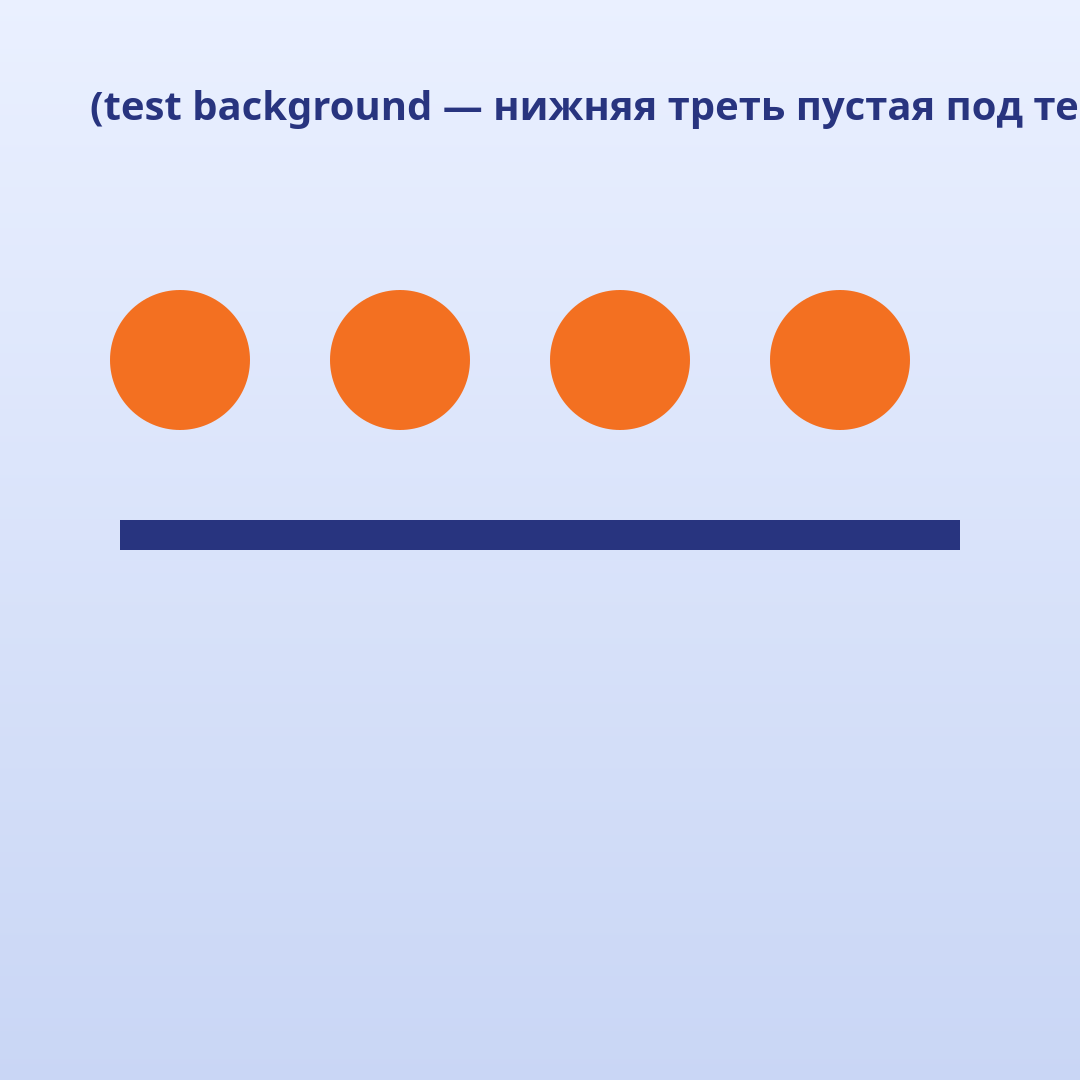
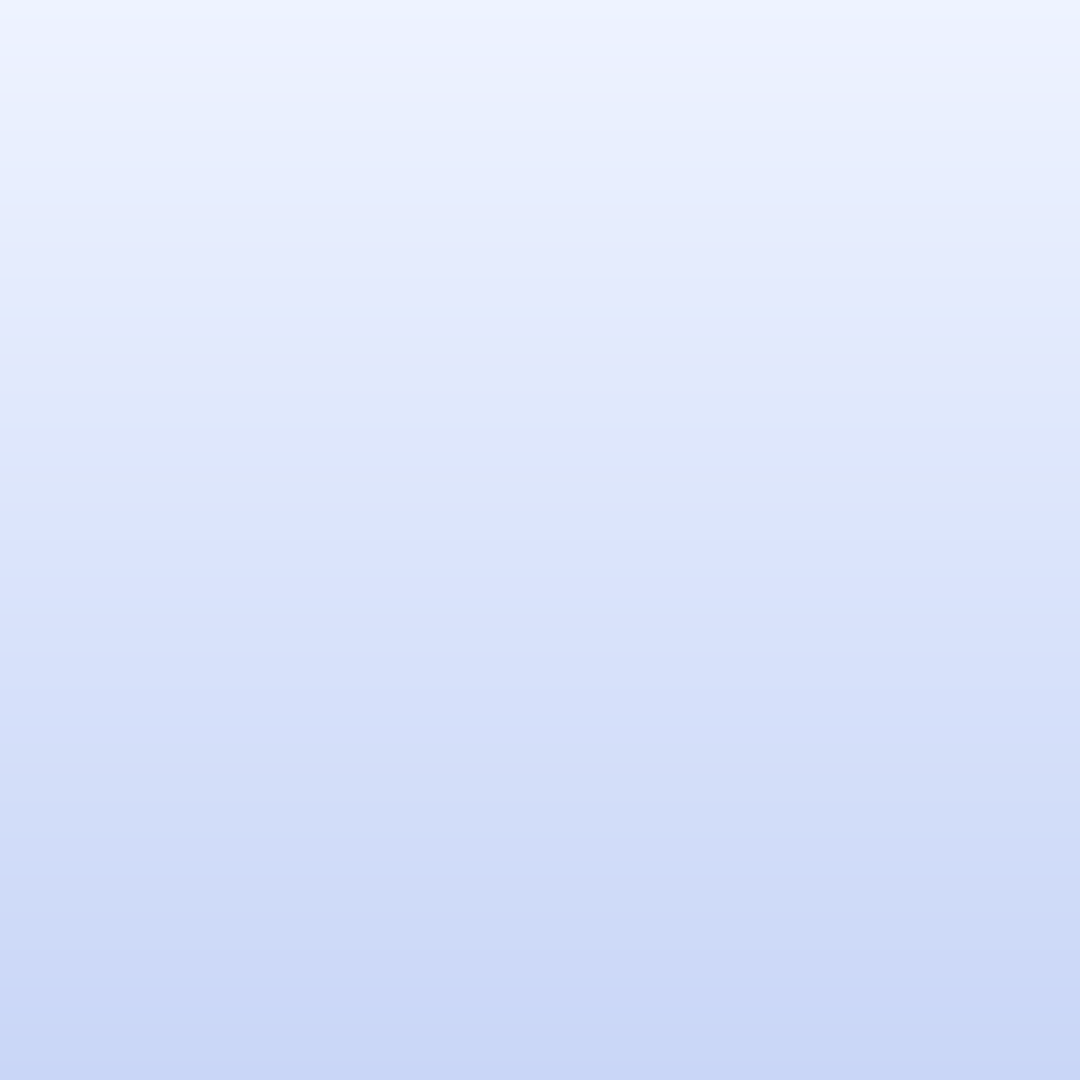
fix(content-bot): Track D image-engine gate fixes
- Logo auto-selects by brightness under it: bright corner → coloured logo.png,
  dark corner → logo-white.png (was always white → invisible on light bg).
- Headline prompt now asks for English text (for Instagram), RU/EN UI.
- Soft length guard: warn (still compose) when a headline exceeds ~50 chars.
- Clean dev fixtures: regenerated _test.png WITHOUT baked placeholder text
  (the on-image label was baked into the test PNG, not rendered by the engine)
  + added _test_dark.png to verify the dark/white-logo path. Both dev-only.

Verified on light/dark fixtures: no service label on the image, logo crisp on
both, English headline, auto-size handles short + long. Draft-only — no posting.

diff --git a/agents/content-bot/image.js b/agents/content-bot/image.js
@@ -101,18 +101,40 @@ function drawScrim(ctx, variant, textZone) {
   ctx.fillRect(0, textZone === 'band' ? 380 : 520, SIZE, SIZE);
 }
 
+// Average relative luminance (0..1) of a canvas region. Used to auto-pick the
+// logo variant so it never blends into the background.
+function regionLuminance(ctx, x, y, w, h) {
+  const sx = Math.max(0, Math.floor(x)), sy = Math.max(0, Math.floor(y));
+  const sw = Math.max(1, Math.min(SIZE - sx, Math.ceil(w)));
+  const sh = Math.max(1, Math.min(SIZE - sy, Math.ceil(h)));
+  const data = ctx.getImageData(sx, sy, sw, sh).data;
+  let sum = 0, n = 0;
+  for (let i = 0; i < data.length; i += 4) {
+    sum += (0.2126 * data[i] + 0.7152 * data[i + 1] + 0.0722 * data[i + 2]) / 255;
+    n++;
+  }
+  return n ? sum / n : 1;
+}
+
 // ── Logo overlay ──────────────────────────────────────────────
-async function drawLogo(ctx, { useWhite = true } = {}) {
-  const p = useWhite && fs.existsSync(LOGO_WHITE_PATH) ? LOGO_WHITE_PATH : LOGO_PATH;
-  if (!fs.existsSync(p)) return;
-  const logo = await loadImage(p);
-  const target = 150; // px
-  const scale = target / Math.max(logo.width, logo.height);
-  const w = logo.width * scale, h = logo.height * scale;
+// Auto-picks the logo variant by sampling the brightness UNDER the logo:
+//   bright corner → COLOURED logo.png (visible on light backgrounds)
+//   dark corner   → logo-white.png    (visible on dark backgrounds)
+async function drawLogo(ctx) {
+  if (!fs.existsSync(LOGO_PATH)) return;
+  const colored = await loadImage(LOGO_PATH);
+  const target = 150; // px (long edge)
+  const scale = target / Math.max(colored.width, colored.height);
+  const w = colored.width * scale, h = colored.height * scale;
   const margin = 48;
-  ctx.globalAlpha = 0.95;
-  ctx.drawImage(logo, SIZE - w - margin, margin, w, h); // top-right
-  ctx.globalAlpha = 1;
+  const x = SIZE - w - margin, y = margin; // top-right
+
+  const lum = regionLuminance(ctx, x, y, w, h);
+  let logo = colored;
+  if (lum < 0.5 && fs.existsSync(LOGO_WHITE_PATH)) logo = await loadImage(LOGO_WHITE_PATH);
+
+  ctx.globalAlpha = 1; // crisp, not faded
+  ctx.drawImage(logo, x, y, w, h);
 }
 
 // ── Main composite ────────────────────────────────────────────
@@ -140,8 +162,8 @@ async function composeBrandedImage({ backgroundPath, text, textZone = 'bottom', 
   // 2) scrim
   drawScrim(ctx, scrim, textZone);
 
-  // 3) logo
-  if (logo) await drawLogo(ctx, { useWhite: scrim !== 'none' });
+  // 3) logo (variant auto-selected by brightness under it)
+  if (logo) await drawLogo(ctx);
 
   // 4) text — auto-fit + wrap, white with a soft contour/shadow for any background
   const z = zoneFor(textZone);

diff --git a/agents/content-bot/index.js b/agents/content-bot/index.js
@@ -290,6 +290,8 @@ function start() {
     // Track D: waiting for the branded-image headline → this text IS the headline.
     if (cur && cur.awaiting === 'headline' && cur.bg) {
       if (!text) { await bot.sendMessage(chatId, t('content.branded_ask_headline', lang)).catch(() => {}); return; }
+      // soft length guard: short hooks render best; warn but still proceed
+      if (text.length > 50) await bot.sendMessage(chatId, t('content.branded_long_note', lang)).catch(() => {});
       try {
         await deliverBrandedImage(bot, chatId, cur.bg, cur.textZone, text);
       } catch (err) {